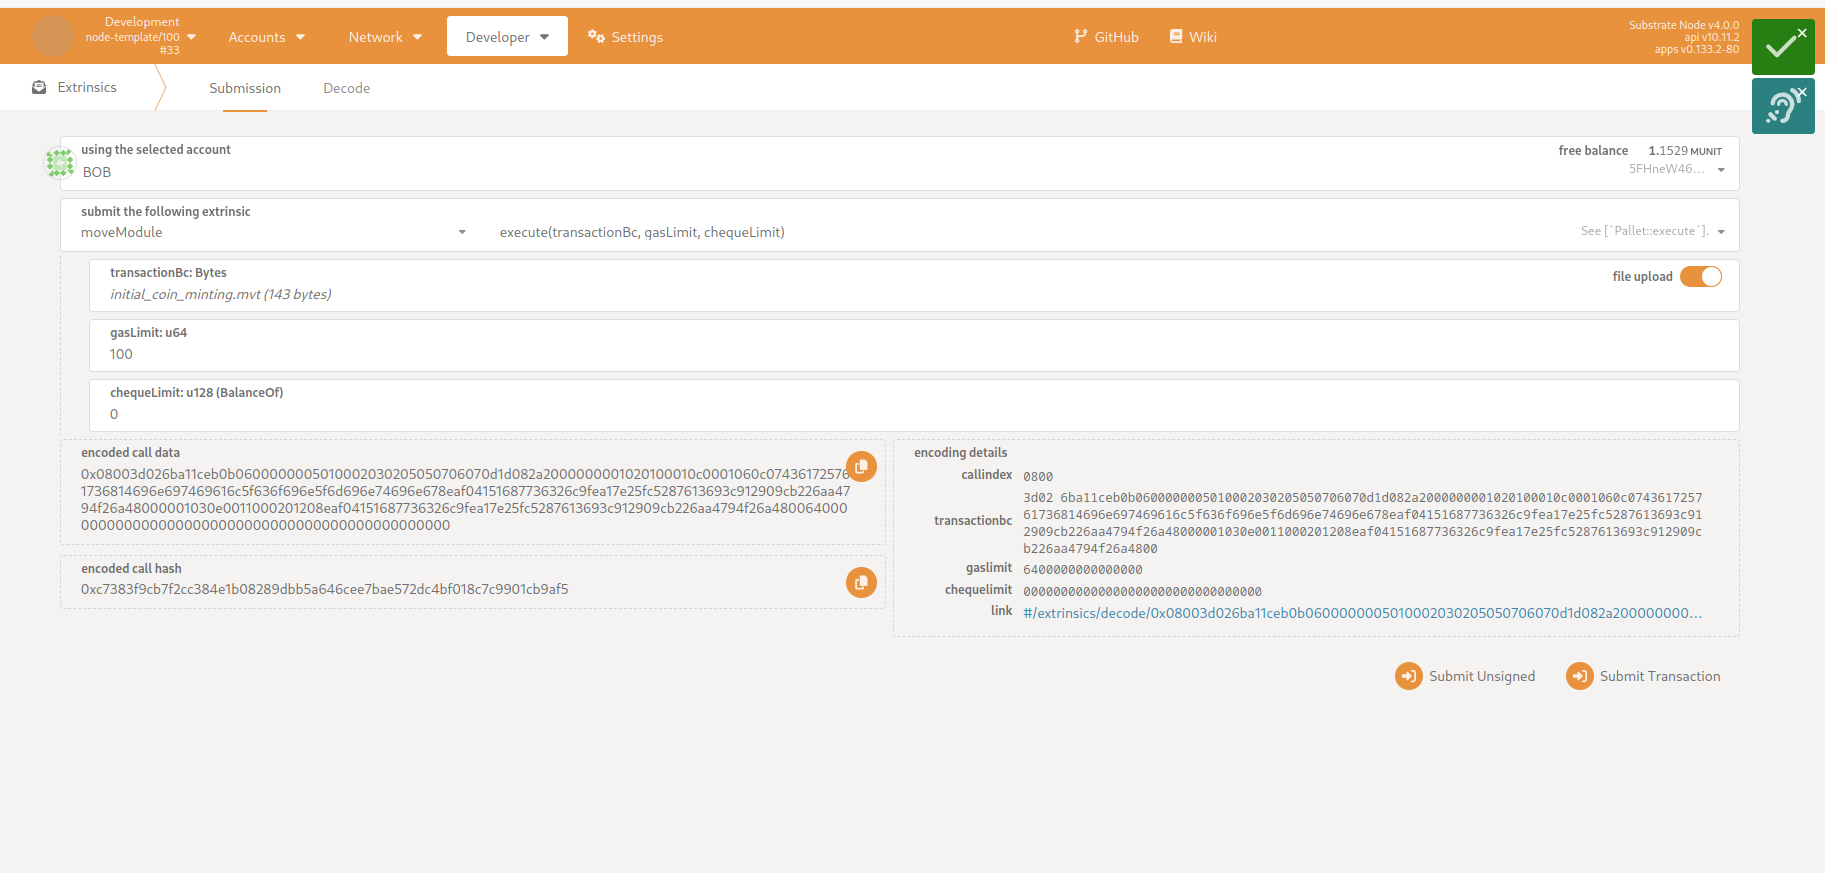
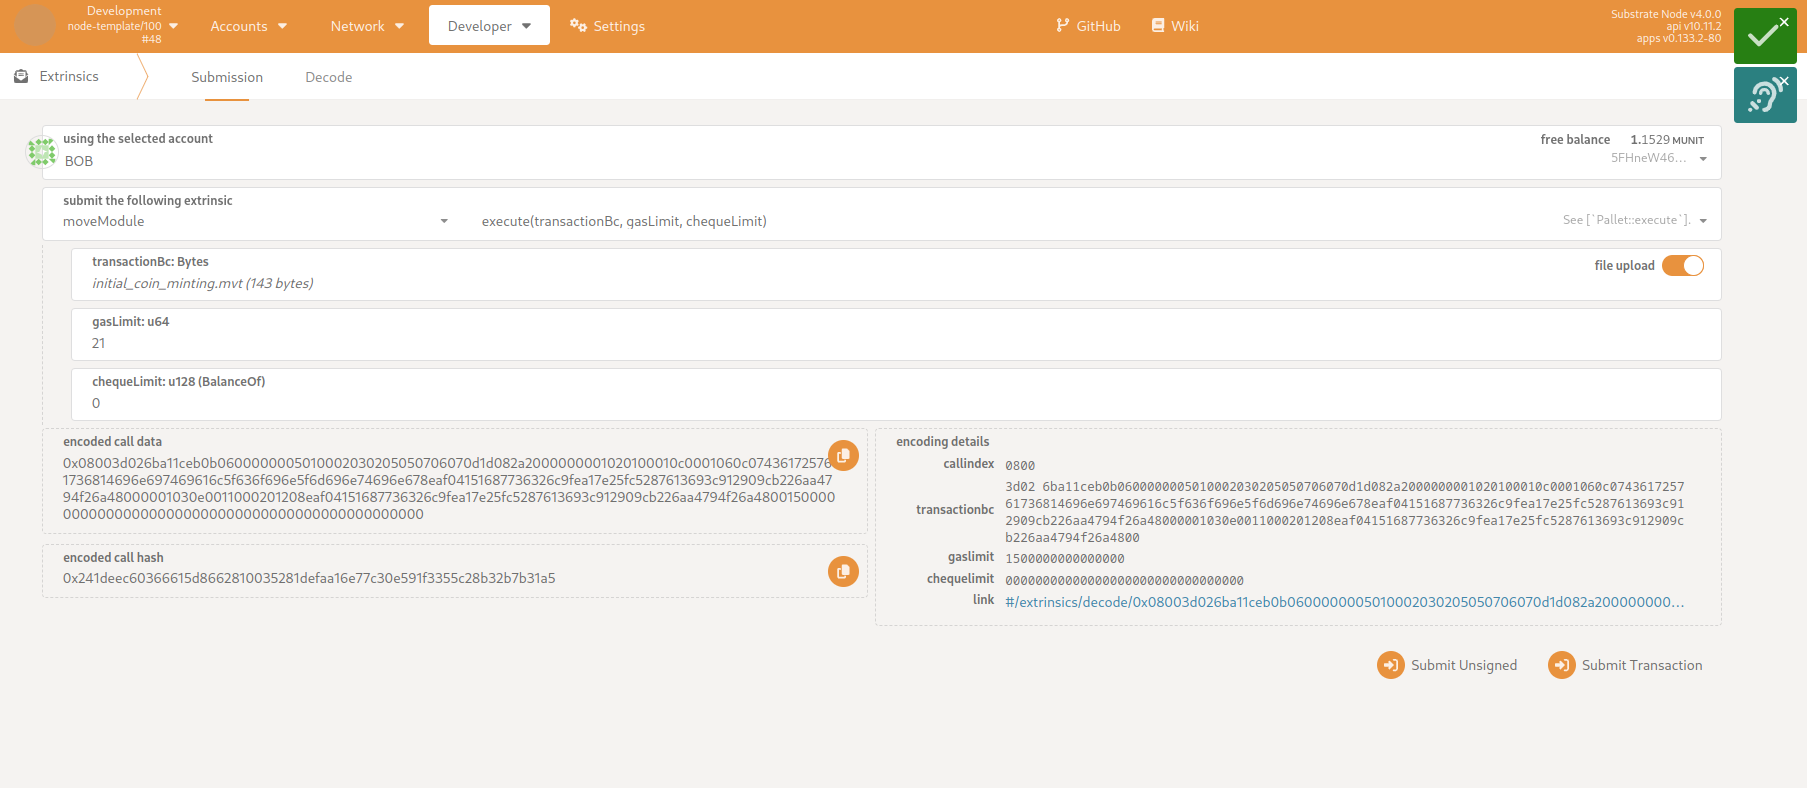
feat: add missing command example with smove

diff --git a/tutorial/Tutorial.md b/tutorial/Tutorial.md
@@ -121,6 +121,12 @@ Script transaction is created at:
 ```
 It means the script and provided parameters have been serialized into the specified output file (serialized transaction), which can now be used in polkadot.js:
 
+Now - like when publishing a module - the optimal amount of needed gas for the script execution can also be estimated by using `smove`:
+```sh
+smove node rpc estimate-gas-execute-script -a 5FHneW46xGXgs5mUiveU4sbTyGBzmstUspZC92UhjJM694ty -s build/car-wash-example/script_transactions/initial_coin_minting.mvt --cheque-limit 0
+# Estimated gas: Estimate (gas_used: 21, vm_status_code: EXECUTED)
+```
+
 ![Execute a script with parameters in polkadot.js](polkadot.js_execute_script_init.png)
 
 The additional parameters are:
